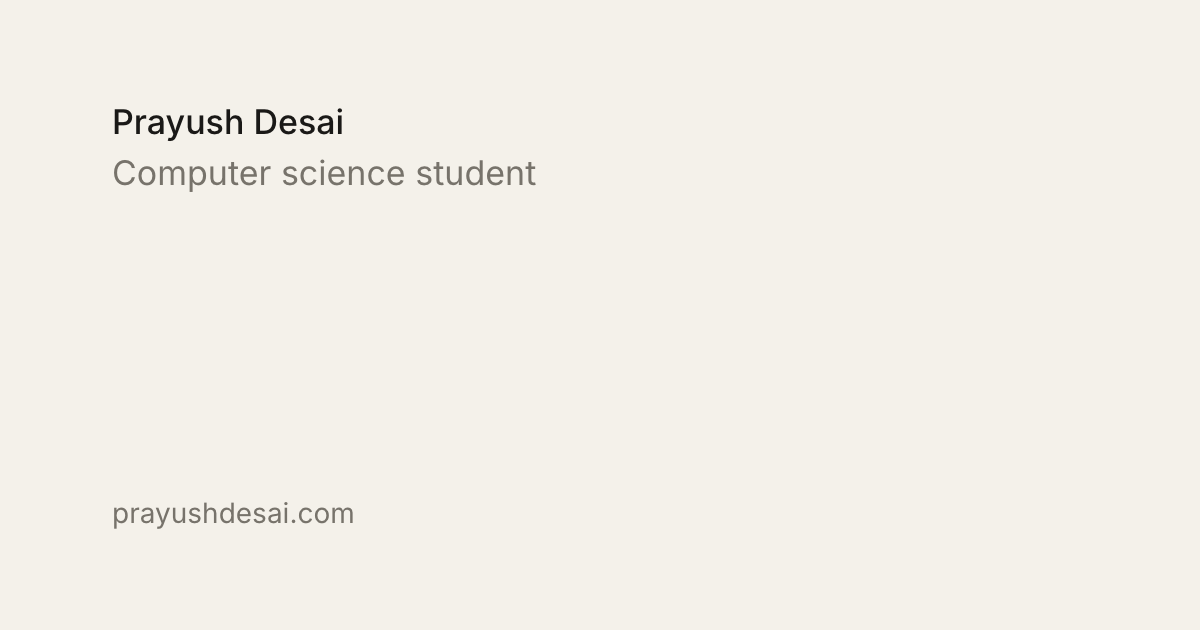
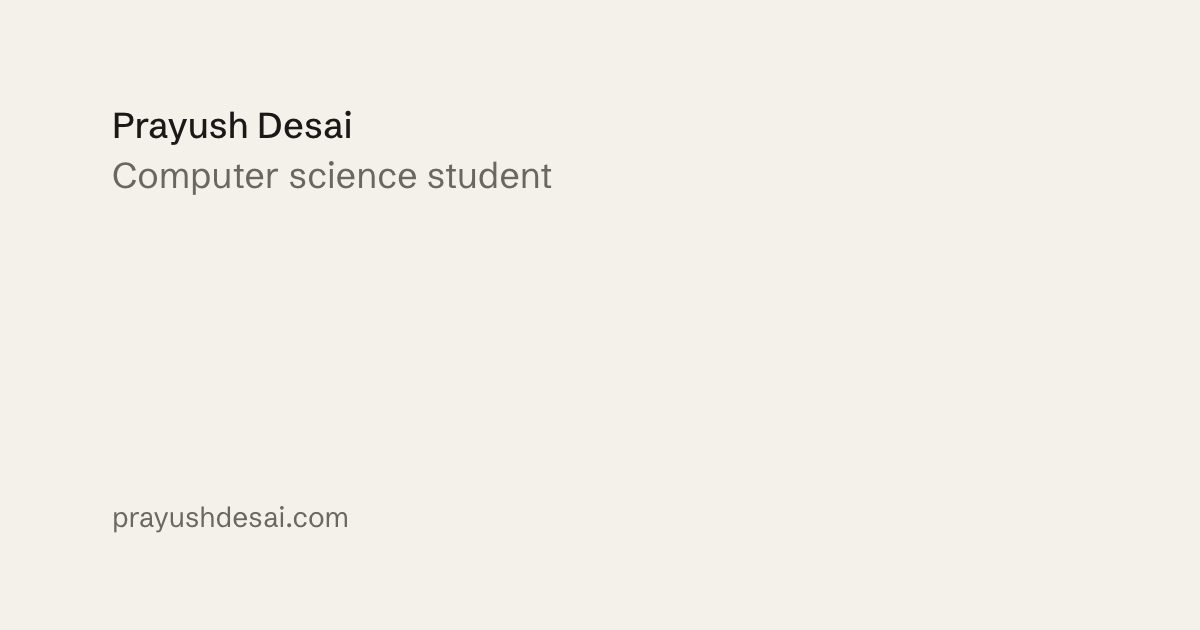
Refresh the homepage design
Swap Inter for Schibsted Grotesk, move colors to OKLCH with alpha borders,
show Margin as a card with a screenshot, add a copy-email button and
external-link arrows, and regenerate the share image.

Changed region(s): [[0.0925, 0.1508, 0.4625, 0.3016], [0.0925, 0.7841, 0.3083, 0.8444]]

diff --git a/index.html b/index.html
@@ -17,72 +17,129 @@
 <meta name="twitter:card" content="summary_large_image">
 <link rel="preconnect" href="https://fonts.googleapis.com">
 <link rel="preconnect" href="https://fonts.gstatic.com" crossorigin>
-<link href="https://fonts.googleapis.com/css2?family=Inter:wght@400;500&display=swap" rel="stylesheet">
+<link href="https://fonts.googleapis.com/css2?family=Schibsted+Grotesk:wght@400;500&display=swap" rel="stylesheet">
+<link rel="preload" href="/assets/margin-hover.webp" as="image" type="image/webp">
 <style>
+  /* palette in OKLCH so equal lightness reads as equal */
   :root {
-    --bg: #f4f1ea;
-    --ink: #1a1917;
-    --soft: #77736b;
-    --rule: #dcd7cc;
-    --red: #c5050c;
+    --bg: oklch(95.9% 0.010 87);
+    --ink: oklch(21.4% 0.004 85);
+    --soft: oklch(51.5% 0.013 85);
+    --line: oklch(21.4% 0.004 85 / 0.12);
+    --line-strong: oklch(21.4% 0.004 85 / 0.28);
+    --wash: oklch(21.4% 0.004 85 / 0.04);
+    --red: oklch(51.9% 0.210 28);
+    --ease: cubic-bezier(.2, .7, 0, 1);
   }
   * { box-sizing: border-box; margin: 0; padding: 0; }
   html { -webkit-text-size-adjust: 100%; }
   body {
     background: var(--bg); color: var(--ink);
-    font: 400 15px/1.65 "Inter", system-ui, sans-serif;
+    font: 400 15px/1.65 "Schibsted Grotesk", system-ui, sans-serif;
     text-wrap: pretty;
-    font-feature-settings: "cv11", "ss01";
     -webkit-font-smoothing: antialiased;
   }
   ::selection { background: var(--ink); color: var(--bg); }
 
-  main { max-width: 600px; margin: 0 auto; padding: clamp(64px, 14vh, 140px) 20px 96px; }
+  main {
+    max-width: 600px; margin: 0 auto; min-height: 100dvh;
+    display: flex; flex-direction: column;
+    padding: clamp(64px, 14vh, 140px) 20px 40px;
+  }
 
   a {
     color: inherit; text-decoration: underline; text-underline-offset: 3px;
-    text-decoration-thickness: 1px; text-decoration-color: var(--rule);
-    transition: text-decoration-color .2s, color .2s;
+    text-decoration-thickness: 1px; text-decoration-color: var(--line-strong);
+    transition: text-decoration-color .2s;
   }
-  a:hover, a:focus-visible { text-decoration-color: currentColor; outline: none; }
+  a:hover { text-decoration-color: currentColor; }
+  :focus-visible { outline: 1.5px solid var(--ink); outline-offset: 3px; border-radius: 3px; }
+
+  /* external-link arrow: 1.5 stroke sits with 400-weight text */
+  .ext { white-space: nowrap; }
+  .ext svg {
+    width: .72em; height: .72em; margin-left: 2px; vertical-align: .02em;
+    stroke: var(--soft); fill: none; stroke-width: 1.5; stroke-linecap: round; stroke-linejoin: round;
+    transition: transform .25s var(--ease), stroke .2s;
+  }
+  .ext:hover svg { transform: translate(1.5px, -1.5px); stroke: var(--ink); }
 
   header { display: flex; justify-content: space-between; align-items: baseline; gap: 16px; }
-  h1 { font-size: 15px; font-weight: 500; letter-spacing: -.005em; }
+  h1 { font-size: 15px; font-weight: 500; }
   .role, .clock { color: var(--soft); }
-  .clock { font-size: 13px; font-variant-numeric: tabular-nums; white-space: nowrap; }
+  .clock { font-size: 13px; white-space: nowrap; }
 
-  section { margin-top: 48px; }
-  h2 { font-size: 15px; font-weight: 400; color: var(--soft); margin-bottom: 14px; }
+  section { margin-top: 56px; }
+  h2 { font-size: 15px; font-weight: 400; color: var(--soft); margin-bottom: 16px; }
   .intro { margin-top: 32px; }
   .intro p + p { margin-top: 14px; }
-  .soft { color: var(--soft); }
 
-  ul { list-style: none; display: grid; gap: 14px; }
-  li { display: grid; grid-template-columns: 1fr auto; column-gap: 16px; }
-  li .t { font-weight: 500; }
-  li .tag { font-size: 13px; color: var(--soft); align-self: baseline; }
-  li .d { grid-column: 1 / -1; color: var(--soft); }
+  /* Margin: a card whose inner radius = outer radius - padding */
+  .card {
+    --r: 14px; --p: 6px;
+    display: block; text-decoration: none;
+    border: 1px solid var(--line); border-radius: var(--r); padding: var(--p);
+    transition: border-color .25s, background-color .25s;
+  }
+  .card:hover { border-color: var(--line-strong); background: var(--wash); }
+  .shot { border-radius: calc(var(--r) - var(--p)); overflow: hidden; }
+  .shot img {
+    display: block; width: 100%; height: auto; aspect-ratio: 1180 / 490;
+    /* soft fade where the crop cuts through the lecture text */
+    -webkit-mask: linear-gradient(90deg, transparent, #000 7% 93%, transparent), linear-gradient(transparent, #000 8% 88%, transparent);
+    -webkit-mask-composite: source-in;
+            mask: linear-gradient(90deg, transparent, #000 7% 93%, transparent) intersect, linear-gradient(transparent, #000 8% 88%, transparent);
+    mix-blend-mode: multiply; /* the screenshot's white melts into the page */
+    transition: transform .6s var(--ease);
+  }
+  .card:hover .shot img { transform: scale(1.015); }
+  .card-text { display: grid; grid-template-columns: 1fr auto; column-gap: 16px; padding: 12px 10px 8px; }
+  .card-text .t { font-weight: 500; }
+  .card-text .tag { font-size: 13px; color: var(--soft); align-self: baseline; }
+  .card-text .d { grid-column: 1 / -1; color: var(--soft); }
+  .card .ext svg { stroke: var(--soft); }
+  .card:hover .ext svg { transform: translate(1.5px, -1.5px); stroke: var(--ink); }
+
   h2 .score { float: right; font-size: 13px; }
   h2 .score b { font-weight: 500; color: var(--ink); font-variant-numeric: tabular-nums; }
 
-  footer { margin-top: 72px; display: flex; justify-content: space-between; gap: 16px; font-size: 13px; color: var(--soft); }
-
-  /* gentle stagger as the page loads */
-  .rise { opacity: 0; transform: translateY(6px); animation: in .7s cubic-bezier(.2,.7,0,1) forwards; }
-  .rise:nth-child(2) { animation-delay: .06s; } .rise:nth-child(3) { animation-delay: .12s; }
-  .rise:nth-child(4) { animation-delay: .18s; } .rise:nth-child(5) { animation-delay: .24s; }
-  .rise:nth-child(6) { animation-delay: .30s; } .rise:nth-child(7) { animation-delay: .36s; }
-  @keyframes in { to { opacity: 1; transform: none; } }
-
   .game-foot { display: flex; justify-content: space-between; gap: 12px; font-size: 13px; color: var(--soft); margin-top: 10px; }
   .game canvas {
-    display: block; width: 100%; aspect-ratio: 2 / 1; border: 1px solid var(--rule); border-radius: 8px;
+    display: block; width: 100%; aspect-ratio: 2 / 1; border: 1px solid var(--line); border-radius: 10px;
     cursor: pointer; touch-action: none; -webkit-tap-highlight-color: transparent; user-select: none; -webkit-user-select: none;
   }
-  .game canvas:focus-visible { outline: 1px solid var(--ink); outline-offset: 3px; }
   @media (max-width: 520px) { .game canvas { aspect-ratio: 3 / 2; } }
 
-  @media (prefers-reduced-motion: reduce) { .rise { animation: none; opacity: 1; transform: none; } }
+  /* copy-email button: outgoing icon blurs as it fades */
+  .copy {
+    display: inline-grid; place-items: center; vertical-align: -2px;
+    width: 22px; height: 22px; margin: 0 -2px 0 1px; border: 0; border-radius: 6px;
+    background: transparent; color: var(--soft); cursor: pointer;
+    transition: background-color .2s, color .2s;
+  }
+  .copy:hover { background: var(--wash); color: var(--ink); }
+  .copy svg {
+    grid-area: 1 / 1; width: 13px; height: 13px;
+    fill: none; stroke: currentColor; stroke-width: 1.5; stroke-linecap: round; stroke-linejoin: round;
+    transition: opacity .2s, filter .2s, transform .25s var(--ease);
+  }
+  .copy .done { opacity: 0; filter: blur(4px); transform: scale(.6); }
+  .copy.ok .idle { opacity: 0; filter: blur(4px); transform: scale(.6); }
+  .copy.ok .done { opacity: 1; filter: none; transform: none; color: var(--ink); }
+
+  footer { margin-top: auto; padding-top: 72px; display: flex; justify-content: space-between; gap: 16px; font-size: 13px; color: var(--soft); }
+
+  /* one quiet stagger on first paint, nothing on scroll */
+  .rise { opacity: 0; transform: translateY(4px); animation: in .6s var(--ease) forwards; }
+  .rise:nth-child(2) { animation-delay: .05s; } .rise:nth-child(3) { animation-delay: .1s; }
+  .rise:nth-child(4) { animation-delay: .15s; } .rise:nth-child(5) { animation-delay: .2s; }
+  .rise:nth-child(6) { animation-delay: .25s; }
+  @keyframes in { to { opacity: 1; transform: none; } }
+
+  @media (prefers-reduced-motion: reduce) {
+    *, *::before, *::after { animation: none !important; transition: none !important; }
+    .rise { opacity: 1; transform: none; }
+  }
 </style>
 </head>
 <body>
@@ -103,9 +160,14 @@
 
   <section class="rise">
     <h2>Now</h2>
-    <ul>
-      <li><span class="t"><a href="https://margin.prayushdesai.com" target="_blank" rel="noopener">Margin</a></span><span class="tag">In progress</span><span class="d">A free Chrome extension that builds your course glossary while you study. Save a term once and its definition shows up on every page and lecture PDF.</span></li>
-    </ul>
+    <a class="card" href="https://margin.prayushdesai.com" target="_blank" rel="noopener">
+      <div class="shot"><img src="/assets/margin-hover.webp" width="1180" height="490" alt="Margin showing the definition of heap in a card over lecture notes"></div>
+      <div class="card-text">
+        <span class="t ext">Margin<svg viewBox="0 0 12 12" aria-hidden="true"><path d="M3.5 8.5l5-5M4.5 3.5h4v4"/></svg></span>
+        <span class="tag">In progress</span>
+        <span class="d">A free Chrome extension that builds your course glossary while you study. Save a term once and its definition shows up on every page and lecture PDF.</span>
+      </div>
+    </a>
   </section>
 
   <section class="rise game" aria-label="Paper plane, a small game">
@@ -116,7 +178,7 @@
 
   <section class="rise">
     <h2>Connect</h2>
-    <p>Reach me by <a href="mailto:pdesai25@wisc.edu">email</a>, or find me on <a href="https://github.com/prayush27" target="_blank" rel="noopener">GitHub</a> and <a href="https://linkedin.com/in/prayushdesai" target="_blank" rel="noopener">LinkedIn</a>.</p>
+    <p>Reach me by <a href="mailto:pdesai25@wisc.edu">email</a><button class="copy" id="copy" type="button" aria-label="Copy email address" title="Copy email address"><svg class="idle" viewBox="0 0 16 16" aria-hidden="true"><rect x="5.5" y="5.5" width="8" height="8" rx="2"/><path d="M10.5 3.5v-.5a1.5 1.5 0 0 0-1.5-1.5H4A1.5 1.5 0 0 0 2.5 3v5A1.5 1.5 0 0 0 4 9.5h.5"/></svg><svg class="done" viewBox="0 0 16 16" aria-hidden="true"><path d="M3.5 8.5l3 3 6-7"/></svg></button>, or find me on <a class="ext" href="https://github.com/prayush27" target="_blank" rel="noopener">GitHub<svg viewBox="0 0 12 12" aria-hidden="true"><path d="M3.5 8.5l5-5M4.5 3.5h4v4"/></svg></a> and <a class="ext" href="https://linkedin.com/in/prayushdesai" target="_blank" rel="noopener">LinkedIn<svg viewBox="0 0 12 12" aria-hidden="true"><path d="M3.5 8.5l5-5M4.5 3.5h4v4"/></svg></a>.</p>
   </section>
 
   <footer class="rise">
@@ -134,13 +196,24 @@
 })();
 
 (() => {
+  const btn = document.getElementById("copy");
+  let t;
+  btn.addEventListener("click", async () => {
+    try { await navigator.clipboard.writeText("pdesai25@wisc.edu"); } catch (e) { return; }
+    btn.classList.add("ok"); btn.setAttribute("aria-label", "Copied");
+    clearTimeout(t);
+    t = setTimeout(() => { btn.classList.remove("ok"); btn.setAttribute("aria-label", "Copy email address"); }, 1600);
+  });
+})();
+
+(() => {
   const canvas = document.getElementById("sky");
   const ctx = canvas.getContext("2d");
   const scoreEl = document.getElementById("score");
   const bestEl = document.getElementById("best");
   const msgEl = document.getElementById("msg");
 
-  const INK = "#1a1917", SOFT = "#77736b", RULE = "#dcd7cc", RED = "#c5050c", PAPER = "#f4f1ea", CLOUD = "#ebe7de";
+  const INK = "#1a1917", SOFT = "#6e6a62", RULE = "#dcd7cc", RED = "#c5050c", PAPER = "#f4f1ea", CLOUD = "#ebe7de";
 
   let W = 0, H = 0, dpr = 1, u = 1, floor = 0;
   let state = "idle", plane, birds, balloons, clouds, hills, trail, speed, dist, nextBird, nextBalloon, holding, time, crashT;
@@ -337,9 +410,9 @@
     if (state === "idle" || (state === "over" && crashT > 0.6)) {
       ctx.fillStyle = "rgba(244,241,234,.8)"; ctx.fillRect(0, 0, W, H);
       ctx.textAlign = "center"; ctx.fillStyle = INK;
-      ctx.font = "500 " + 22 * u + 'px "Inter", system-ui, sans-serif';
+      ctx.font = "500 " + 22 * u + 'px "Schibsted Grotesk", system-ui, sans-serif';
       ctx.fillText(state === "idle" ? "Ready for takeoff?" : Math.floor(dist) + " m", W / 2, H / 2 - 6 * u);
-      ctx.fillStyle = SOFT; ctx.font = "400 " + Math.max(12, 13 * u) + 'px "Inter", system-ui, sans-serif';
+      ctx.fillStyle = SOFT; ctx.font = "400 " + Math.max(12, 13 * u) + 'px "Schibsted Grotesk", system-ui, sans-serif';
       ctx.fillText(state === "idle" ? "Press and hold to fly" : "Tap to fly again", W / 2, H / 2 + 22 * u);
     }
   }

diff --git a/404.html b/404.html
@@ -3,22 +3,22 @@
 <head>
 <meta charset="utf-8">
 <meta name="viewport" content="width=device-width, initial-scale=1">
-<title>Not found — Prayush Desai</title>
+<title>Not found · Prayush Desai</title>
 <meta name="robots" content="noindex">
 <meta name="color-scheme" content="light">
 <link rel="icon" href="/favicon.svg" type="image/svg+xml">
 <link rel="preconnect" href="https://fonts.googleapis.com">
 <link rel="preconnect" href="https://fonts.gstatic.com" crossorigin>
-<link href="https://fonts.googleapis.com/css2?family=Inter:wght@400;500&display=swap" rel="stylesheet">
+<link href="https://fonts.googleapis.com/css2?family=Schibsted+Grotesk:wght@400;500&display=swap" rel="stylesheet">
 <style>
-  :root { --bg: #f4f1ea; --ink: #1a1917; --soft: #77736b; --rule: #dcd7cc; }
+  :root { --bg: oklch(95.9% 0.010 87); --ink: oklch(21.4% 0.004 85); --soft: oklch(51.5% 0.013 85); --rule: oklch(21.4% 0.004 85 / 0.28); }
   * { box-sizing: border-box; margin: 0; padding: 0; }
-  body { background: var(--bg); color: var(--ink); font: 400 15px/1.65 "Inter", system-ui, sans-serif; -webkit-font-smoothing: antialiased; }
+  body { background: var(--bg); color: var(--ink); font: 400 15px/1.65 "Schibsted Grotesk", system-ui, sans-serif; -webkit-font-smoothing: antialiased; }
   main { max-width: 600px; margin: 0 auto; padding: clamp(64px, 14vh, 140px) 20px; }
   h1 { font-size: 15px; font-weight: 500; }
   p { color: var(--soft); }
   p + p { margin-top: 32px; color: var(--ink); }
-  a { color: inherit; text-decoration: underline; text-underline-offset: 3px; text-decoration-color: var(--rule); }
+  a { color: inherit; text-decoration: underline; text-underline-offset: 3px; text-decoration-thickness: 1px; text-decoration-color: var(--rule); }
   a:hover { text-decoration-color: currentColor; }
 </style>
 </head>

diff --git a/README.md b/README.md
@@ -26,7 +26,7 @@ The full version — projects, write-ups and a résumé — is in progress. For 
 
 - **Markup & styles:** plain HTML and CSS, nothing to build
 - **Game:** *Paper plane*, a tiny one-button flyer. Hold to climb, let go to glide, and steer around birds and red balloons. Drawn on a `<canvas>` in vanilla JavaScript.
-- **Type:** [Inter](https://rsms.me/inter/), one typeface for everything
+- **Type:** [Schibsted Grotesk](https://fonts.google.com/specimen/Schibsted+Grotesk), one typeface for everything
 - **Palette:** one warm paper tone, near-black ink, and UW red for hover states
 - **Hosting:** GitHub Pages
 - **Domain & DNS:** Cloudflare
